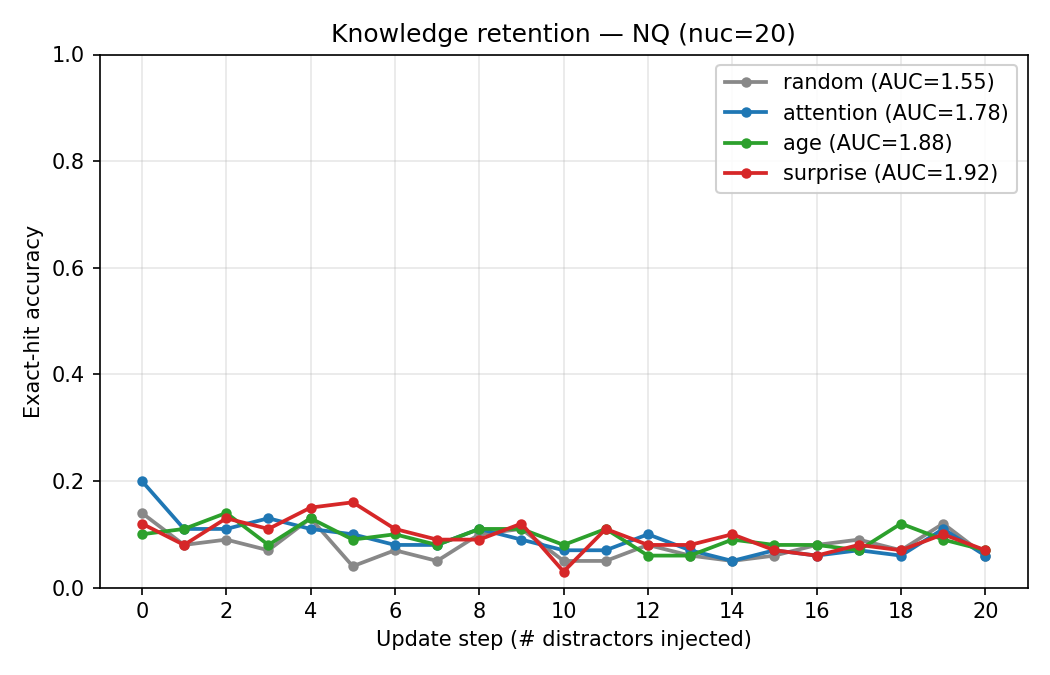
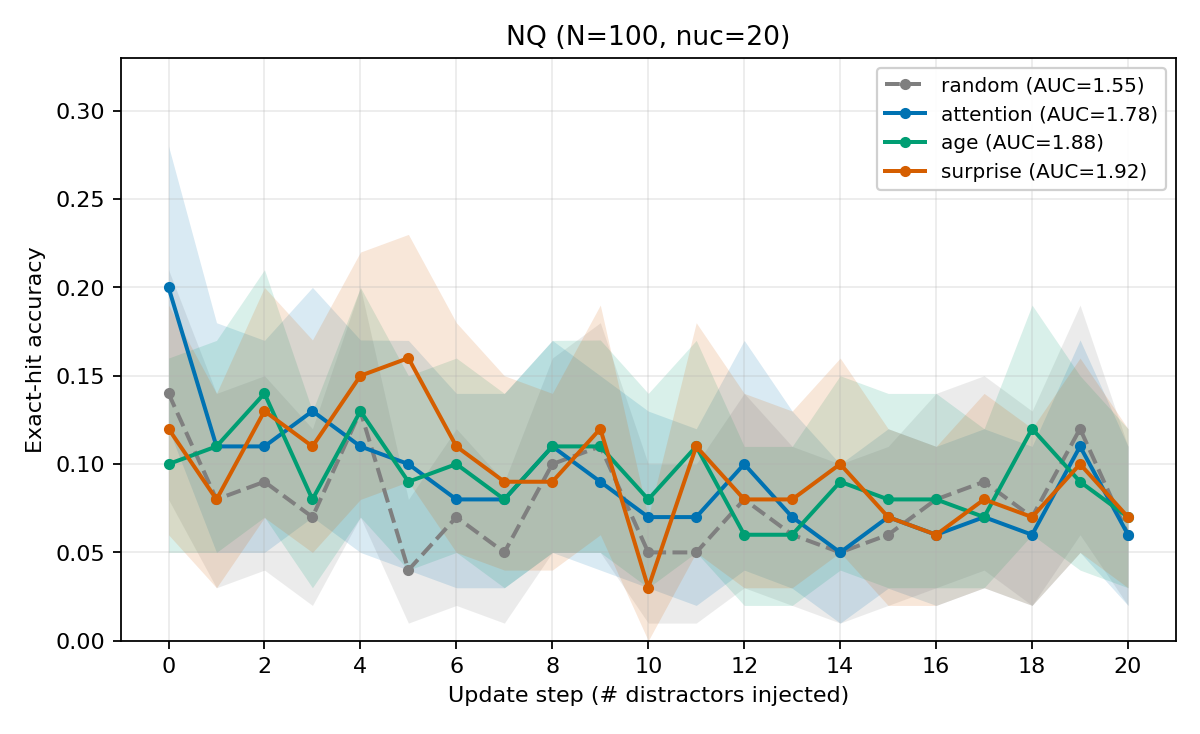
figures: bootstrap CI bands, dashed random baseline, combined panel

diff --git a/analysis/plot_retention.py b/analysis/plot_retention.py
@@ -1,72 +1,127 @@
 #!/usr/bin/env python3
 """
-Plot retention decay curves: accuracy vs update step, all strategies overlaid.
+Plot retention decay curves with bootstrap 95% CI bands.
 
 Reads results/{dataset}_{strategy}_nuc{N}.json and writes:
     figures/retention_squad.png
     figures/retention_nq.png
+    figures/retention_combined.png   (side-by-side)
 
 Usage:
     python analysis/plot_retention.py
-    python analysis/plot_retention.py --results_dir results --nuc 20
+    python analysis/plot_retention.py --no_ci      # disable CI bands
+    python analysis/plot_retention.py --bootstrap_iters 5000
 """
 
 import argparse
-import glob
 import json
 import os
 import re
+import string
 
 import matplotlib.pyplot as plt
+import numpy as np
 
 STRATEGIES = ["random", "attention", "age", "surprise"]
+# Colorblind-safe palette (Wong 2011); random is gray to read as baseline
 COLORS = {
-    "random":    "#888888",
-    "attention": "#1f77b4",
-    "age":       "#2ca02c",
-    "surprise":  "#d62728",
+    "random":    "#7f7f7f",   # neutral gray
+    "attention": "#0072B2",   # blue
+    "age":       "#009E73",   # green
+    "surprise":  "#D55E00",   # vermillion
+}
+LINESTYLES = {
+    "random":    "--",        # dashed = baseline
+    "attention": "-",
+    "age":       "-",
+    "surprise":  "-",
 }
 DATASETS = ["squad", "nq"]
 
 
-def load_json(path):
+def normalize(s):
+    s = s.replace("</s>", "").replace("<|end_of_text|>", "")
+    s = s.lower()
+    s = "".join(c for c in s if c not in string.punctuation)
+    return re.sub(r"\s+", " ", s).strip()
+
+
+def load_hit_matrix(path, nuc):
+    """Return (N, nuc+1) bool matrix of per-example, per-step hits."""
     with open(path) as f:
-        return json.load(f)
+        d = json.load(f)
+    if "per_example" not in d:
+        return None, d.get("accuracy_per_step")
+    N = len(d["per_example"])
+    M = np.zeros((N, nuc + 1), dtype=bool)
+    for i, ex in enumerate(d["per_example"]):
+        t = normalize(ex["target"])
+        for s in range(nuc + 1):
+            M[i, s] = t in normalize(ex["step_preds"].get(f"step_{s}", ""))
+    return M, d["accuracy_per_step"]
 
 
-def plot_dataset(dataset, results_dir, nuc, out_path):
-    fig, ax = plt.subplots(figsize=(7, 4.5))
+def bootstrap_band(hit_matrix, n_iters, rng):
+    """Bootstrap 95% CI band on per-step accuracy by resampling examples."""
+    N, T = hit_matrix.shape
+    samples = np.empty((n_iters, T))
+    for b in range(n_iters):
+        idx = rng.integers(0, N, size=N)
+        samples[b] = hit_matrix[idx].mean(axis=0)
+    lo = np.percentile(samples, 2.5, axis=0)
+    hi = np.percentile(samples, 97.5, axis=0)
+    return lo, hi
 
-    found_any = False
+
+def auc_of(curve):
+    return float(np.trapezoid(curve))
+
+
+def plot_dataset(ax, dataset, results_dir, nuc, draw_ci, n_iters, rng):
+    found = False
+    y_max = 0.0
+    y_min = 1.0
+
     for strat in STRATEGIES:
         path = os.path.join(results_dir, f"{dataset}_{strat}_nuc{nuc}.json")
         if not os.path.exists(path):
-            print(f"  [skip] {path} (missing)")
             continue
-        d = load_json(path)
-        accs = d["accuracy_per_step"]
-        steps = list(range(len(accs)))
-        ax.plot(steps, accs, marker="o", markersize=4, linewidth=1.8,
-                label=f"{strat} (AUC={d['auc']:.2f})", color=COLORS[strat])
-        found_any = True
+        H, accs_saved = load_hit_matrix(path, nuc)
+        if H is None:
+            accs = np.array(accs_saved)
+        else:
+            accs = H.mean(axis=0)
+        steps = np.arange(len(accs))
+        auc = auc_of(accs)
 
-    if not found_any:
-        print(f"  [warn] no JSONs found for dataset={dataset}, nuc={nuc}")
-        plt.close(fig)
+        if draw_ci and H is not None:
+            lo, hi = bootstrap_band(H, n_iters, rng)
+            ax.fill_between(steps, lo, hi, color=COLORS[strat], alpha=0.15, linewidth=0)
+            y_min = min(y_min, float(lo.min()))
+            y_max = max(y_max, float(hi.max()))
+
+        ax.plot(steps, accs,
+                marker="o", markersize=4, linewidth=1.8,
+                linestyle=LINESTYLES[strat],
+                color=COLORS[strat],
+                label=f"{strat} (AUC={auc:.2f})")
+        y_min = min(y_min, float(accs.min()))
+        y_max = max(y_max, float(accs.max()))
+        found = True
+
+    if not found:
         return False
+
+    # Tight y-axis with a little headroom; round to nice ticks
+    pad = max(0.05, (y_max - y_min) * 0.15)
+    ax.set_ylim(max(0.0, y_min - pad), min(1.0, y_max + pad))
 
     ax.set_xlabel("Update step (# distractors injected)")
     ax.set_ylabel("Exact-hit accuracy")
-    ax.set_title(f"Knowledge retention — {dataset.upper()} (nuc={nuc})")
-    ax.set_ylim(0, 1.0)
+    ax.set_title(f"{dataset.upper()} (N=100, nuc={nuc})")
     ax.set_xticks(range(0, nuc + 1, max(1, nuc // 10)))
-    ax.grid(True, alpha=0.3)
-    ax.legend(loc="upper right", framealpha=0.9)
-
-    plt.tight_layout()
-    plt.savefig(out_path, dpi=150)
-    plt.close(fig)
-    print(f"  -> {out_path}")
+    ax.grid(True, alpha=0.25)
+    ax.legend(loc="upper right", framealpha=0.92, fontsize=9)
     return True
 
 
@@ -75,13 +130,43 @@ def main():
     p.add_argument("--results_dir", default="results")
     p.add_argument("--figures_dir", default="figures")
     p.add_argument("--nuc", type=int, default=20)
+    p.add_argument("--no_ci", action="store_true")
+    p.add_argument("--bootstrap_iters", type=int, default=2000)
+    p.add_argument("--seed", type=int, default=42)
     args = p.parse_args()
 
     os.makedirs(args.figures_dir, exist_ok=True)
+    rng = np.random.default_rng(args.seed)
 
+    # Per-dataset figures
     for ds in DATASETS:
+        fig, ax = plt.subplots(figsize=(7.5, 4.6))
+        ok = plot_dataset(ax, ds, args.results_dir, args.nuc,
+                          draw_ci=not args.no_ci,
+                          n_iters=args.bootstrap_iters, rng=rng)
         out = os.path.join(args.figures_dir, f"retention_{ds}.png")
-        plot_dataset(ds, args.results_dir, args.nuc, out)
+        if ok:
+            plt.tight_layout()
+            plt.savefig(out, dpi=160)
+            print(f"  -> {out}")
+        plt.close(fig)
+
+    # Combined side-by-side panel
+    fig, axes = plt.subplots(1, 2, figsize=(14, 4.6), sharey=False)
+    any_drawn = False
+    for ax, ds in zip(axes, DATASETS):
+        ok = plot_dataset(ax, ds, args.results_dir, args.nuc,
+                          draw_ci=not args.no_ci,
+                          n_iters=args.bootstrap_iters, rng=rng)
+        any_drawn = any_drawn or ok
+    if any_drawn:
+        fig.suptitle("Knowledge retention across update steps (95% bootstrap CI shaded)",
+                     fontsize=12, y=1.02)
+        plt.tight_layout()
+        out = os.path.join(args.figures_dir, "retention_combined.png")
+        plt.savefig(out, dpi=160, bbox_inches="tight")
+        print(f"  -> {out}")
+    plt.close(fig)
 
 
 if __name__ == "__main__":
